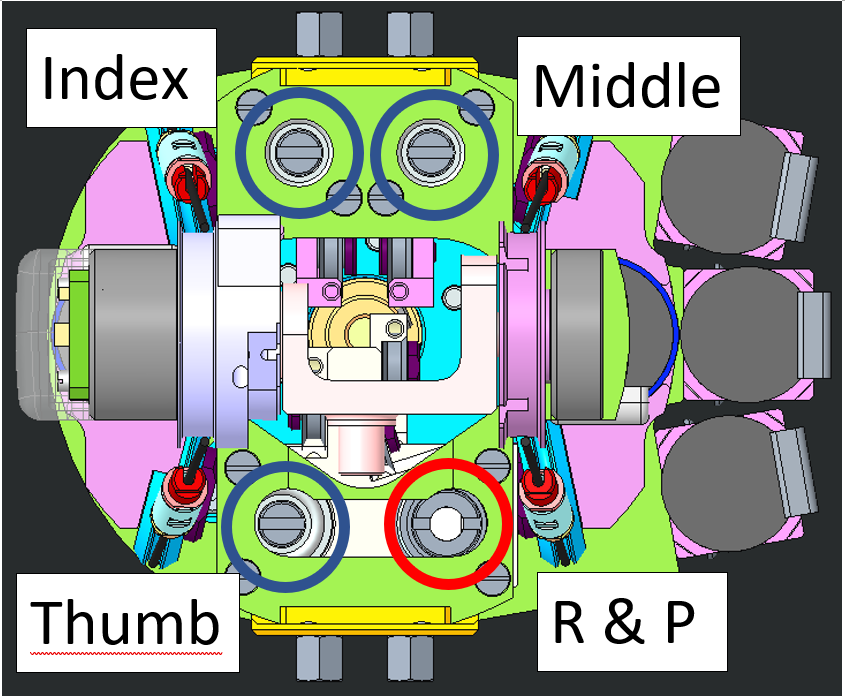
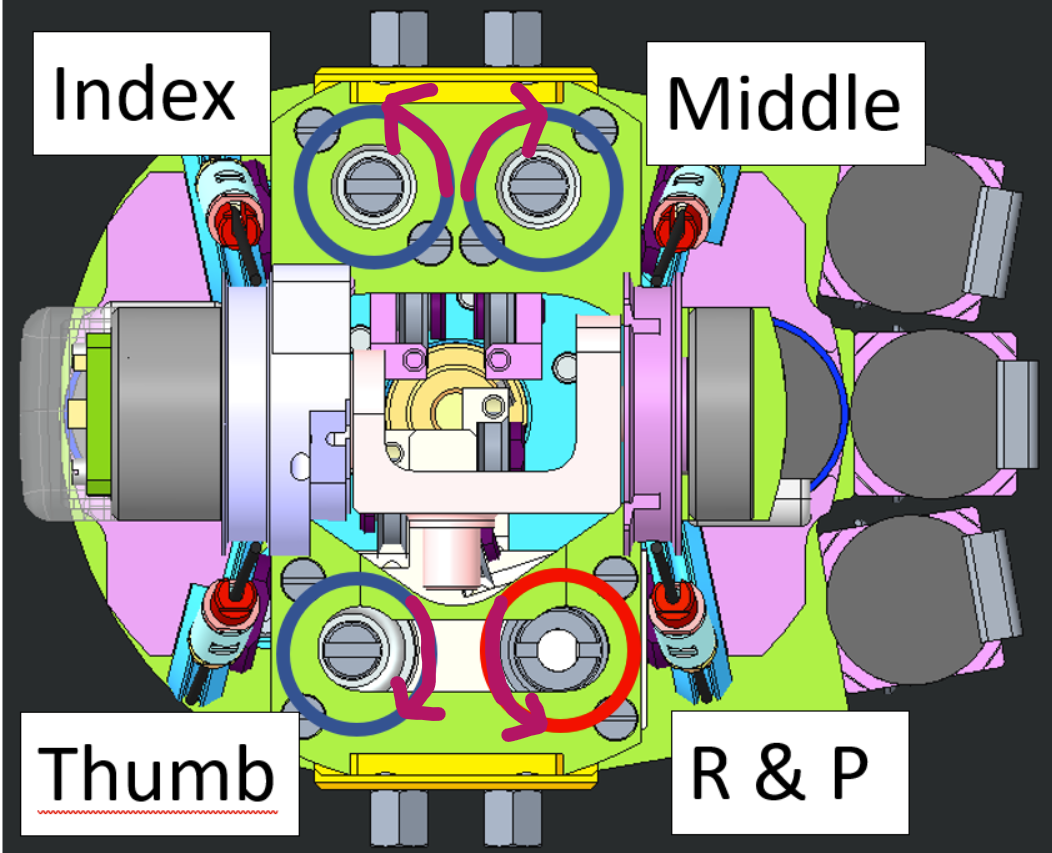
Improvements on Lower Arm cabling guide (#95)

diff --git a/docs/icub_tendons/lower_arm_V2.md b/docs/icub_tendons/lower_arm_V2.md
@@ -66,6 +66,9 @@ Here is the table to locate all the distal joints on a forearm (**left** in this
 
 !!! danger "WATCH OUT"
     FOR the **Right forearm** : the motor positions are "mirrored" respect to the **left** ones.
+    
+The **arrow** represents the sense of rotation to close the finger. It is important, after the cabling, to verify that the finger closes when the motor is rotated according to the respective arrow. You can rotate the motor with a flat screwdriver to do so.
+
 
 | RIGHT FOREARM                                           | LEFT FOREARM                                            |
 | ------------------------------------------------------- | ------------------------------------------------------- |
